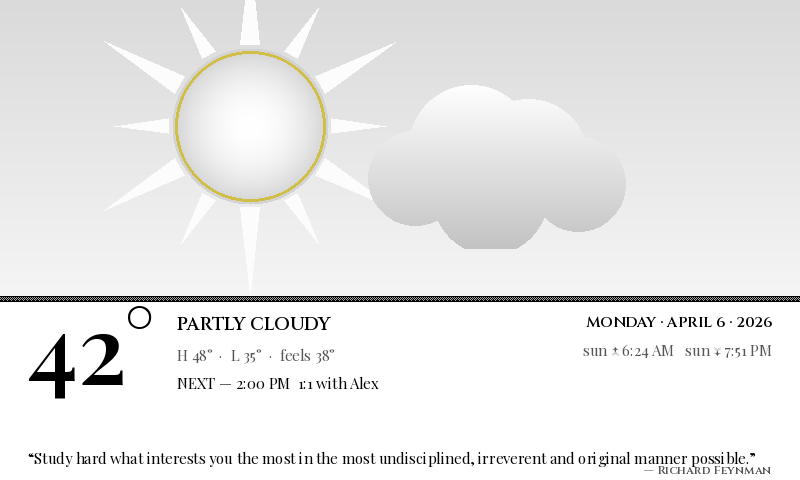
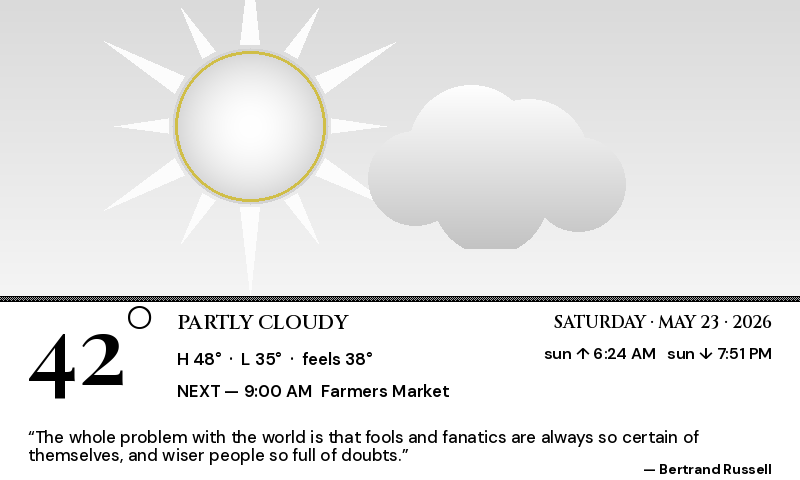
Merge pull request #166 from gkoch02/claude/halftone-text-legibility-IjsEL

Pull request: fix(halftone): make margin-band text solid black, larger, and sans-serif
The halftone theme's Floyd-Steinberg quantization was dithering the
margin band's mid-grey "secondary" fills into a halftone pattern,
rendering the stats line, date subtitle, sunrise/sunset row, and
author byline almost unreadable. Playfair Display's thin serif
strokes also lost detail at 12–15 pt after dithering.

- Drop the grey secondary fill entirely: visual hierarchy in the
  margin band now comes from font size and weight, not colour.
- Switch body / quote / author type from Playfair to DM Sans
  (semibold + bold). Sans-serif strokes survive Floyd-Steinberg
  cleanly. Playfair stays on the 96 pt temperature numeral where
  it still reads.
- Bump font sizes across the band: stats 15→17 pt semibold,
  next-event 15→17 pt semibold, condition 18→20 pt, location
  15→17 pt, date 15→16 pt, sunrise 15→16 pt, quote 15→17 pt,
  author 12→14 pt bold.
- Regenerate Waveshare/Inky/split halftone preview PNGs and the
  halftone pixel-hash snapshot.

diff --git a/src/render/components/halftone_panel.py b/src/render/components/halftone_panel.py
@@ -706,8 +706,11 @@ def _draw_margin_band(
         paper = paper.convert("RGB")
     image.paste(paper, (x0, y0))
 
+    # Every margin-band glyph is drawn in solid ink. Mid-grey fills get
+    # mangled by Floyd-Steinberg into a halftone pattern and become
+    # illegible — visual hierarchy here is carried by size and weight,
+    # not by colour.
     ink = _ink(mode)
-    secondary = _grey(85, mode)
 
     weather = data.weather
 
@@ -722,11 +725,11 @@ def _draw_margin_band(
     text_col_x = temp_right + 22
 
     # --- Condition (small caps) to the right of the temperature numeral
-    condition_font = style.font_section_label(18)
+    condition_font = style.font_section_label(20)
     condition_text = (weather.current_description or "").upper() if weather else "AWAITING DATA"
     if condition_text:
         cb = draw.textbbox((0, 0), condition_text, font=condition_font)
-        cy = y0 + 14 - cb[1]
+        cy = y0 + 12 - cb[1]
         draw.text(
             (text_col_x - cb[0], cy),
             condition_text,
@@ -735,7 +738,7 @@ def _draw_margin_band(
         )
 
     # --- Stats line under the condition
-    stats_font = style.font_regular(15)
+    stats_font = style.font_semibold(17)
     parts: list[str] = []
     if weather is not None:
         parts.append(f"H {_fmt_temp(weather.high)}")
@@ -746,18 +749,18 @@ def _draw_margin_band(
     if stats_text:
         sb = draw.textbbox((0, 0), stats_text, font=stats_font)
         draw.text(
-            (text_col_x - sb[0], y0 + 46 - sb[1]),
+            (text_col_x - sb[0], y0 + 50 - sb[1]),
             stats_text,
             font=stats_font,
-            fill=secondary,
+            fill=ink,
         )
 
     # --- Next event line — below stats
     next_line = _next_event_line(data.events, now)
     if next_line:
-        event_font = style.font_regular(15)
+        event_font = style.font_semibold(17)
         eb = draw.textbbox((0, 0), next_line, font=event_font)
-        ey = y0 + 74 - eb[1]
+        ey = y0 + 82 - eb[1]
         # Limit to the available width before the right-column starts.
         max_w = (x0 + w - MARGIN_PAD_X - 260) - text_col_x
         if max_w > 80:
@@ -771,7 +774,7 @@ def _draw_margin_band(
             )
 
     # --- Right-aligned location/date (small caps), anchored to the top-right
-    location_font = style.font_section_label(15)
+    location_font = style.font_section_label(17)
     location_text = (
         (weather.location_name or "").upper()
         if weather and weather.location_name
@@ -779,36 +782,37 @@ def _draw_margin_band(
     )
     lb = draw.textbbox((0, 0), location_text, font=location_font)
     loc_x = x0 + w - MARGIN_PAD_X - (lb[2] - lb[0]) - lb[0]
-    loc_y = y0 + 14 - lb[1]
+    loc_y = y0 + 12 - lb[1]
     draw.text((loc_x, loc_y), location_text, font=location_font, fill=ink)
 
     # When the OWM location is set, fall back to a date line below it.
     if weather and weather.location_name:
-        date_font = stats_font
+        date_font = style.font_semibold(16)
         date_text = today.strftime("%A · %B %-d · %Y").upper()
         db = draw.textbbox((0, 0), date_text, font=date_font)
         dx = x0 + w - MARGIN_PAD_X - (db[2] - db[0]) - db[0]
-        draw.text((dx, y0 + 40 - db[1]), date_text, font=date_font, fill=secondary)
-        sun_y = y0 + 66
+        draw.text((dx, y0 + 42 - db[1]), date_text, font=date_font, fill=ink)
+        sun_y = y0 + 70
     else:
-        sun_y = y0 + 42
+        sun_y = y0 + 46
 
     # --- Sunrise / sunset line right-aligned
     if weather and (weather.sunrise or weather.sunset):
         rise = _format_event_time(weather.sunrise) if weather.sunrise else "—"
         setp = _format_event_time(weather.sunset) if weather.sunset else "—"
         sun_text = f"sun ↑ {rise}   sun ↓ {setp}"
-        sb = draw.textbbox((0, 0), sun_text, font=stats_font)
+        sun_font = style.font_semibold(16)
+        sb = draw.textbbox((0, 0), sun_text, font=sun_font)
         sx = x0 + w - MARGIN_PAD_X - (sb[2] - sb[0]) - sb[0]
         sy = sun_y - sb[1]
-        draw.text((sx, sy), sun_text, font=stats_font, fill=secondary)
+        draw.text((sx, sy), sun_text, font=sun_font, fill=ink)
 
     # --- Daily quote at the bottom; wraps to two lines so the larger font
     # still has room to breathe. Author sits right-aligned beneath.
     quote = _quote_for_today(today, refresh=quote_refresh, now=now)
-    quote_font = style.font_quote(15) if style.font_quote else style.font_regular(15)
+    quote_font = style.font_quote(17) if style.font_quote else style.font_regular(17)
     author_font = (
-        style.font_quote_author(12) if style.font_quote_author else style.font_semibold(12)
+        style.font_quote_author(14) if style.font_quote_author else style.font_semibold(14)
     )
     quote_text = f"“{quote['text']}”"
     author_text = f"— {quote['author']}"
@@ -835,4 +839,4 @@ def _draw_margin_band(
         fill=ink,
     )
     ax = x0 + w - MARGIN_PAD_X - (author_bb[2] - author_bb[0]) - author_bb[0]
-    draw.text((ax, ay), author_text, font=author_font, fill=secondary)
+    draw.text((ax, ay), author_text, font=author_font, fill=ink)

diff --git a/src/render/themes/halftone.py b/src/render/themes/halftone.py
@@ -27,7 +27,9 @@ from __future__ import annotations
 
 from src.render.fonts import (
     cinzel_semibold,
-    playfair_regular,
+    dm_bold,
+    dm_medium,
+    dm_semibold,
     playfair_semibold,
 )
 from src.render.theme import (
@@ -68,15 +70,20 @@ def halftone_theme() -> Theme:
             # L-mode light canvas invariant: black ink on near-white field.
             fg=0,
             bg=255,
-            font_regular=playfair_regular,
-            font_medium=playfair_regular,
-            font_semibold=playfair_semibold,
-            font_bold=playfair_semibold,
+            # Body text switched from Playfair to DM Sans — sans-serif strokes
+            # survive Floyd-Steinberg dithering far better than Playfair's
+            # high-contrast thin serifs, which previously broke apart at small
+            # sizes. Playfair stays on the hero temperature numeral where its
+            # character still reads cleanly at 96 pt.
+            font_regular=dm_medium,
+            font_medium=dm_medium,
+            font_semibold=dm_semibold,
+            font_bold=dm_bold,
             font_title=playfair_semibold,
             font_section_label=cinzel_semibold,
-            font_quote=playfair_regular,
-            font_quote_author=cinzel_semibold,
-            label_font_size=11,
+            font_quote=dm_medium,
+            font_quote_author=dm_bold,
+            label_font_size=13,
             label_font_weight="semibold",
             accent_primary=INKY_BLACK,
             accent_secondary=INKY_YELLOW,